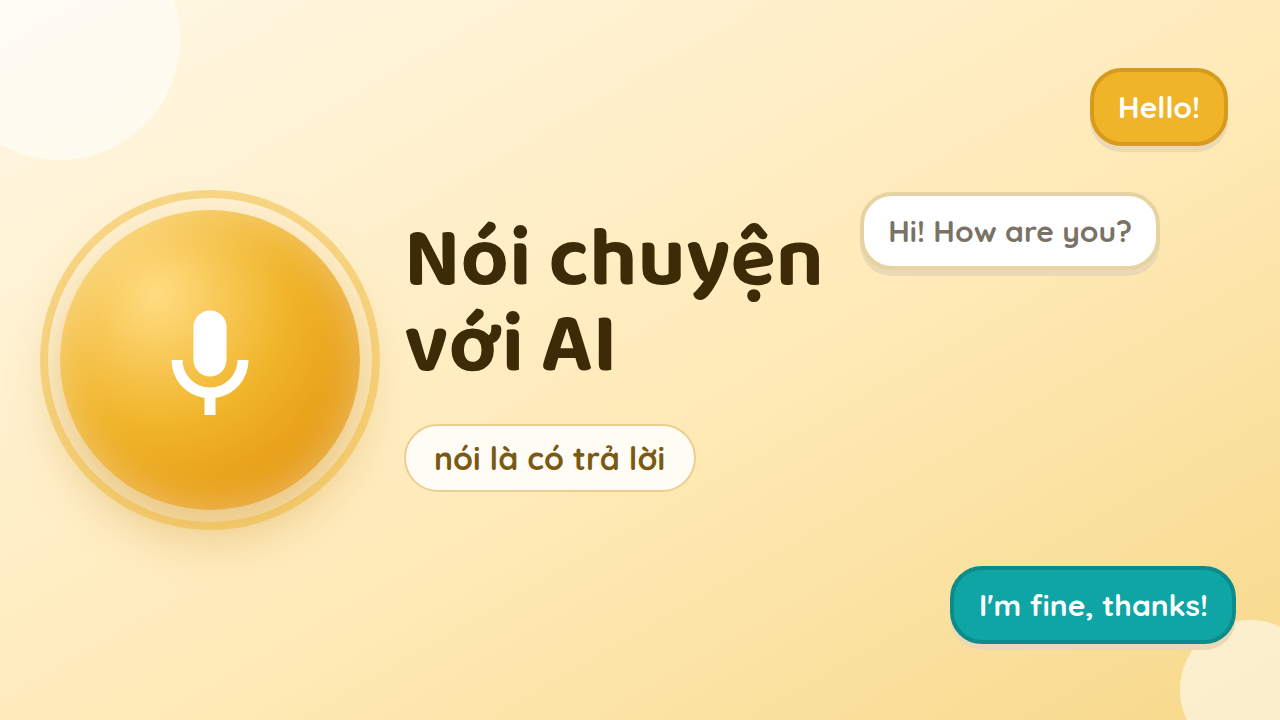
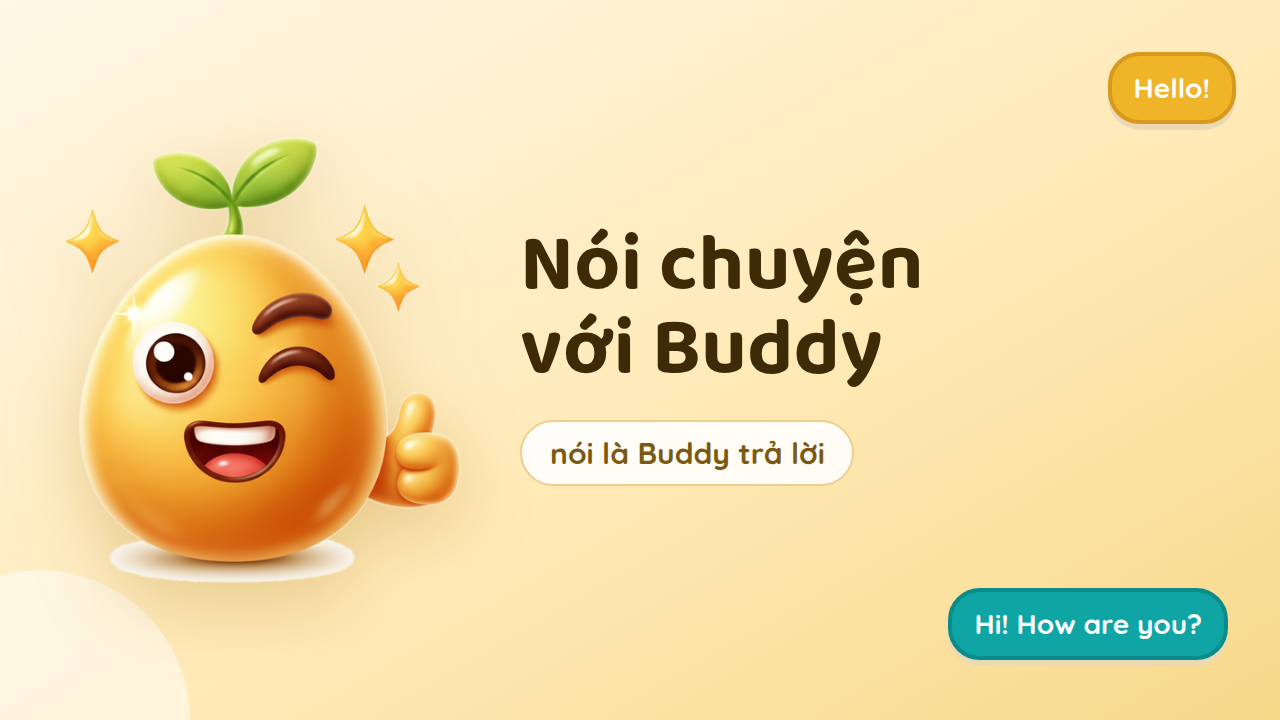
Doi ten tro thanh Noi chuyen voi Buddy, anh moi co mascot

diff --git a/game/sanh.html b/game/sanh.html
@@ -255,7 +255,7 @@ const NHOM = [
   { so:6, ten:"Sáng tạo", mo:"Nói chuyện với AI bằng tiếng Anh, dùng từ và cấu trúc của bài", mau:"#0ea5a4",
     tro:[
       {ten:"Nói chuyện với AI", phu:"6 lượt hỏi–đáp, AI chấm từng câu", href:"noi-chuyen.html", img:"noi-chuyen.png"},
-      {ten:"Trò chuyện trực tiếp", phu:"Nói tự do, AI đáp ngay · chưa tính điểm", href:"https://vm-4-13-ubuntu.tailcfa324.ts.net/noi/", img:"noi-truc-tiep.png"}
+      {ten:"Nói chuyện với Buddy", phu:"Nói là Buddy trả lời ngay · chơi cho vui, chưa tính điểm", href:"https://vm-4-13-ubuntu.tailcfa324.ts.net/noi/", img:"noi-truc-tiep.png"}
     ]}
 ];
 
